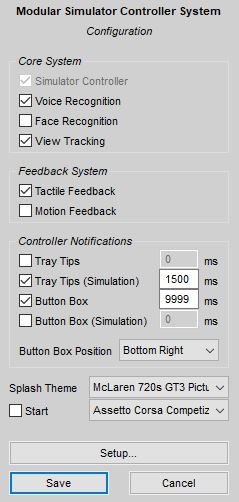
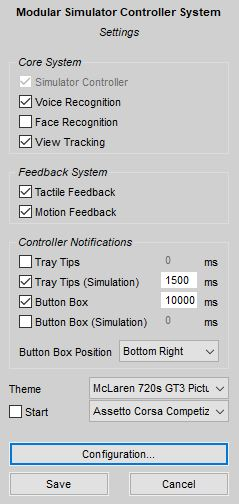
Renames Part 6

diff --git a/Docs/Installation & Configuration.md b/Docs/Installation & Configuration.md
@@ -36,7 +36,7 @@ The configuration tool consists of several pages or tabs. Below you will find a 
 
 As the name of this tab suggests, some very general configuration options are provided. In the *Installation Folders* group you can identify the root folder of the Simulator Controller installation - optional in most cases, but it may provide some performance benefits. The second path identifies the *NirCmd* executable, which is used by the Simulator Controller to control the sound volume of some simulation games. Optional, but helpful. See the [README](https://github.com/SeriousOldMan/Simulator-Controller#third-party-applications) for a link to the *NirCmd* download.
 
-![](https://github.com/SeriousOldMan/Simulator-Controller/blob/main/Docs/Images/Setup%20Tab%201.JPG)
+![](https://github.com/SeriousOldMan/Simulator-Controller/blob/main/Docs/Images/Configuration%20Tab%201.JPG)
 
 The second group, *Startup*, allows you to choose whether the Simulator Controller will start together with Windows and whether it will run silently, i.e. without any splash animation or sound. With the button "Themes Editor..." you can jump to a special editor to customize the splash dialogs of various applications of Simulator Controller. See the chapter on the [themes editor](https://github.com/SeriousOldMan/Simulator-Controller/wiki/Installation-&-Configuration#themes-editor) for a complete explanation of themes.
 
@@ -48,7 +48,7 @@ The last group, which is only present in developer mode as mentioned above, lets
 
 In this tab you can configure the plugins currently in use by the Simulator Controller.
 
-![](https://github.com/SeriousOldMan/Simulator-Controller/blob/main/Docs/Images/Setup%20Tab%202.JPG)
+![](https://github.com/SeriousOldMan/Simulator-Controller/blob/main/Docs/Images/Configuration%20Tab%202.JPG)
 
 Beside temporarily deactivating a plugin and all its modes, you can define a comma seperated list of simulator names. This will restrict the modes of the plugin to only be available, when these simulators are running. The most important field here is the *Arguments* field. Here you can supply values for all the configuration parameters of the given plugin. The format is like this: "parameter1: value11, value12, value13; parameter2: value21, value22; ...". Please take a look at the [plugin reference](https://github.com/SeriousOldMan/Simulator-Controller/wiki/Plugins-&-Modes) for an in depth explanation of all the parameters of the builtin plugins. Last but not least, you will find an "Edit Labels" button in the lower left corner of this tab. Pressing this button will open a simple text file, where you can edit the labels, some plugins display on the visual hardware controller display. Change them to your liking.
 
@@ -58,7 +58,7 @@ Note: You can deactivate or delete all plugins except *System*. The *System* plu
 
 Simulator Controller can handle as many applications as you want. Beside the simulation games itself, you may want to launch your favorite telemetry or voice chat application with a push of a button. Or you want a voice recognition software to be started together with the Simulator Controller to be able to handle all activaties not only by the Button Box, but by voice commands as well. The possibilities are endless. To be able to do that, Simulator Controller needs needs knowledge about these applications, where to find them and how to handle them. This is the purpose of the *Applications* tab.
 
-![](https://github.com/SeriousOldMan/Simulator-Controller/blob/main/Docs/Images/Setup%20Tab%203.JPG)
+![](https://github.com/SeriousOldMan/Simulator-Controller/blob/main/Docs/Images/Configuration%20Tab%203.JPG)
 
 There are three diffenrent types of applications, "Core", "Feedback" and "Other". All of these applications are optional, but for the "Core" and "Feedback" category, Simulator Controller is aware of them, either directly or with the help of a plugin, and use them for a better user experience. Since adding "Core" and "Feedback" applications also need some development efforts, the categories cannot be changed by using the configuration tool, which means, that any application added here will be automatically of type "Other". But "Other" applications may be used by the [Launchpad](https://github.com/SeriousOldMan/Simulator-Controller/wiki/Installation-&-Configuration#tab-launchpad).
 
@@ -72,7 +72,7 @@ For developers: Sometimes you want magic stuff to happen, when an application is
 
 This tab represents the most important, the most versatile and also the most difficult to understand part of the configuration process. On this page, you describe your hardware controller, for example a Button Box, and all the functionality available on this controller.
 
-![](https://github.com/SeriousOldMan/Simulator-Controller/blob/main/Docs/Images/Setup%20Tab%204.JPG)
+![](https://github.com/SeriousOldMan/Simulator-Controller/blob/main/Docs/Images/Configuration%20Tab%204.JPG)
 
 In the top section you define how many functional elements of each type are available on your hardware controller. Simulator Controller can handle as many 1-way and 2-way toggle switches, normal push buttons and 2-way rotary dials as you like. Beside that, a fith function type *Custom* is available to connect special controller elements or other external trigger (for example macro tools for voice recognition) to the Simulator Controller.
 
@@ -136,7 +136,7 @@ This little tool will help you identifying the button numbers of your hardware c
 
 On the launchpad, you can define a list of type "Other" applications, that can be launched by a push of a button on your controller. The "Launch" mode, which belongs to the "System" plugin, will use this list to occupy as many buttons on your controller, as has been defined on the *Controller* tab.
 
-![](https://github.com/SeriousOldMan/Simulator-Controller/blob/main/Docs/Images/Setup%20Tab%205.JPG)
+![](https://github.com/SeriousOldMan/Simulator-Controller/blob/main/Docs/Images/Configuration%20Tab%205.JPG)
 
 You need to specify a small label text to display on the visual representation of your controller and you need to choose the application, which will be launched, when the corresponding button is pressed. You can use the "Up" and "Down" buttons to specifiy the position of these applications on the launchpad.
 
@@ -144,7 +144,7 @@ You need to specify a small label text to display on the visual representation o
 
 Many simulation games provide an ingame multiplayer text based chat system. Since it is very difficult and also dangerous to a certain extent to type while driving or flying, you can configure predefined chat messages on this tab. These may be used by several plugins for specific simulators, to help you to send a kudos to your oppenents or even insult or offend them. Chat messages will typically be used in a mode of a specific plugin for a simulation game. See the [ACCPlugin](https://github.com/SeriousOldMan/Simulator-Controller/wiki/Plugins-&-Modes#plugin-acc) for an example.
 
-![](https://github.com/SeriousOldMan/Simulator-Controller/blob/main/Docs/Images/Setup%20Tab%206.JPG)
+![](https://github.com/SeriousOldMan/Simulator-Controller/blob/main/Docs/Images/Configuration%20Tab%206.JPG)
 
 You need to specify a small label text to display on the visual representation of your controller and you specifiy the long chat message, which will be send to the ingame chat system. You can use the "Up" and "Down" buttons to specifiy the position of these chat messages on the controller hardware.
 
